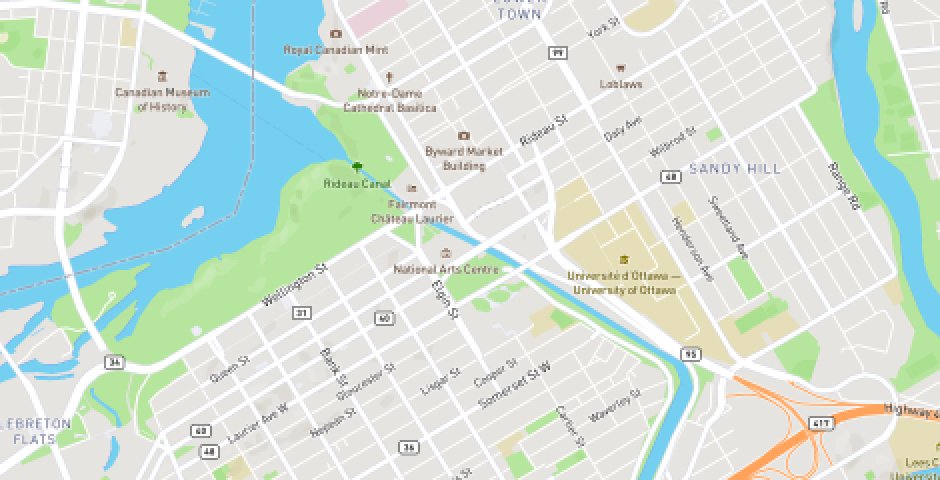
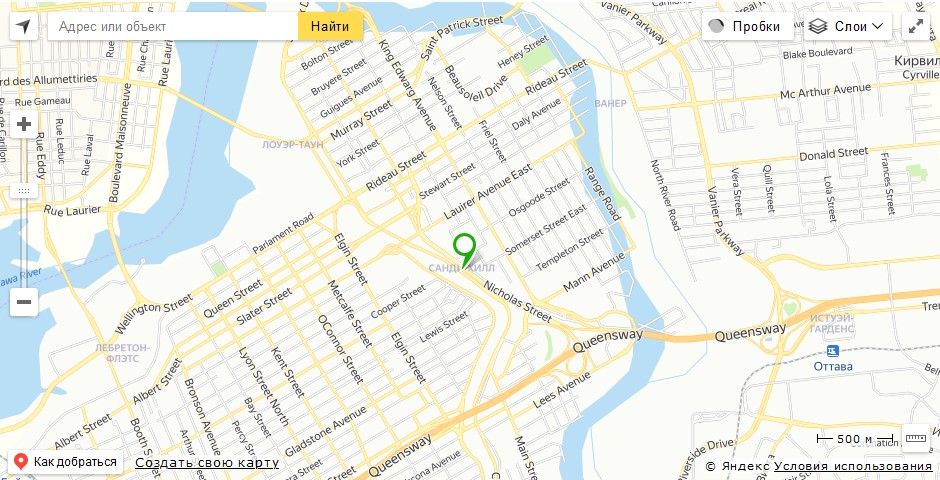
feat(contact-us.html): add yandex map and change static image map

diff --git a/src/contact-us.html b/src/contact-us.html
@@ -156,7 +156,7 @@
             </button>
           </form>
         </div>
-        <div class="map"></div>
+        <div class="map" id="map"></div>
       </div>
     </section>
   </main>
@@ -274,5 +274,8 @@
       </div>
     </div>
   </footer>
+  <script src="https://api-maps.yandex.ru/2.1/?lang=ru_RU&amp;apikey=0a089ddb-fc0e-487c-96e2-38b4ab505de4
+  " type="text/javascript"></script>
+  <script src="js/map.js"></script>
 </body>
 </html>

diff --git a/src/js/map.js b/src/js/map.js
@@ -1,0 +1,17 @@
+ymaps.ready(init);
+
+function init () {
+  var myMap = new ymaps.Map('map', {
+    center: [45.421099, -75.683988],
+    zoom: 14
+  }),
+
+  myPlacemark = new ymaps.Placemark(myMap.getCenter(), {
+    hintContent: "Санди-Хилл"
+  }, {
+    preset: 'islands#darkGreenIcon',
+  });
+
+  myMap.geoObjects
+  .add(myPlacemark)
+}
